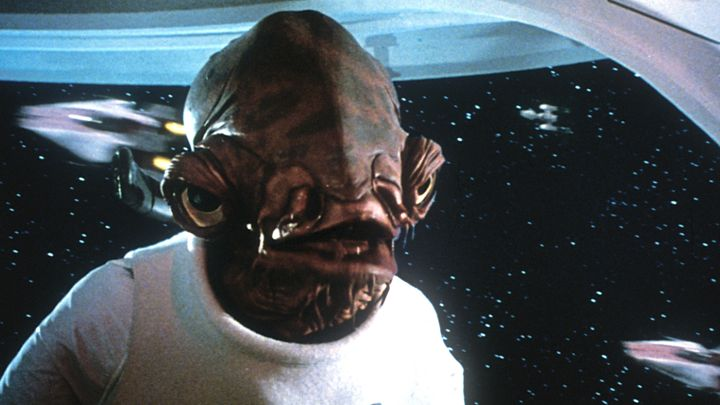
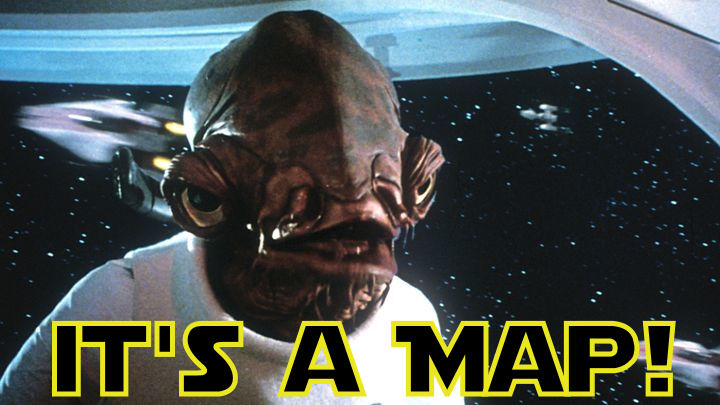
updates of blog

Changed region(s): [[0.5194, 0.7704, 0.9472, 1.0], [0.0611, 0.7704, 0.3361, 1.0], [0.3667, 0.7704, 0.5194, 1.0]]

diff --git a/blog/enumerable-methods.html b/blog/enumerable-methods.html
@@ -43,8 +43,8 @@
 					<h2>Maps (aka Collect)</h2>
 					
 					<p class="codeblk">So <a href="arrays-hashes.html">last week</a> we learned all about arrays which was great... right?! Well now we have our sweet array, but 
-					now what if we want to add to modify each element in it.  Well we could run an each method on it then add code to call each element and do something to it like this 
-					for instance.</p>
+					now what if we want to add something to modify each element in it.  Well we could run an each method on it then add code to call each element and do something to it 
+					like this for instance.</p>
 					
 					<script src="https://gist.github.com/ttalhouk/b7f694158c3bf8455b0b.js"></script>
 					
@@ -55,9 +55,9 @@
 					<figure>
 						<img src="../imgs/Ackbar.jpg" alt="Admaral Ackbar" title="It's a Map" />
 						<br />
-						<figcaption>
+						<!---<figcaption>
 						"It's a MAP!"
-						</figcaption>
+						</figcaption>--->
 					</figure>
 					
 					<p class="codeblk">Well that's a lot more efficent, isn't it!  Note, <span class=code>.map!</span> perminently changes the array that called it so now 
@@ -83,4 +83,5 @@
 		</footer>
 
 	</body>
+</html>
 </html>
